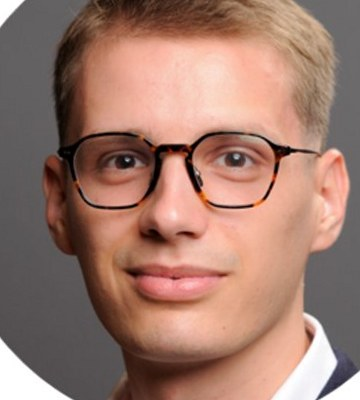
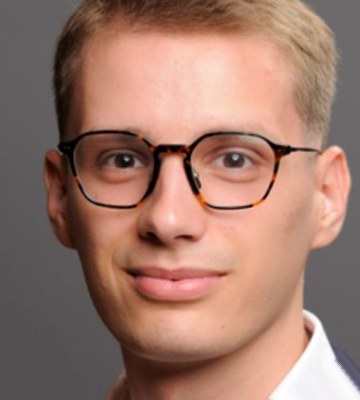
Cadavre exquis : têtes tournées du même côté et visages ajustés sur un visage moyen
Claude-Session: https://claude.ai/code/session_01BayyRGBPTT2h444o73kSTA

diff --git a/cadavre-exquis/commun.js b/cadavre-exquis/commun.js
@@ -2,7 +2,7 @@
 window.CE = (function () {
   const NOMS = window.CE_NOMS || [];
   const pad = (i) => String(i + 1).padStart(2, "0");
-  // Chaque visage (visages/XX.jpg, 360 x 400 px, aligné sur un visage moyen sans déformation : même place pour les yeux, le nez et la bouche) est découpé en 4 bandes de hauteur fixe.
+  // Chaque visage (visages/XX.jpg, 360 x 400 px, calé sur un visage moyen : même place pour les yeux, le nez et la bouche) est découpé en 4 bandes de hauteur fixe.
   // y = haut de la bande, h = sa hauteur, en pixels de l'image.
   const PARTIES = [
     { nom: "Front", y: 0, h: 108 },

diff --git a/README.md b/README.md
@@ -41,8 +41,8 @@ et « Voir le classement » (`classement.html`).
     À sa prochaine visite, son téléphone oublie l'ancienne partie et il peut rejouer.
 
 - `cadavre-exquis/` : un mélangeur de visages, sans score ni classement (`classement: false` dans `listes.js`).
-  - `visages/01.jpg` à `21.jpg` : les photos de `qui-se-cache/photos`, alignées sans déformation sur un visage moyen
-    (yeux, nez et bouche à la même place) et découpées en 4 bandes (front 0-108 px, yeux 108-196, nez 196-258, bouche 258-400) ; `noms.js` : les prénoms,
+  - `visages/01.jpg` à `21.jpg` : les photos de `qui-se-cache/photos`, retournées en miroir si besoin (toutes les têtes
+    du même côté), calées et légèrement ajustées sur un visage moyen (yeux, nez et bouche à la même place) et découpées en 4 bandes (front 0-108 px, yeux 108-196, nez 196-258, bouche 258-400) ; `noms.js` : les prénoms,
     dans le même ordre ; `commun.js` : la découpe (`PARTIES`) et le nom de la créature.
   - `index.html` : on change chaque morceau avec les flèches ou en le faisant glisser du doigt, « Tout mélanger »
     tire 4 collègues au hasard, « Remettre d'aplomb » redonne tout au propriétaire du front, et
